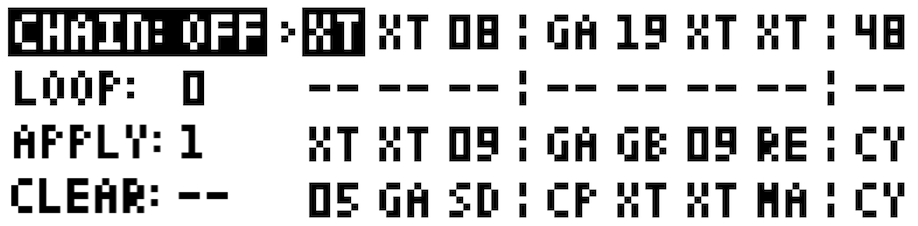
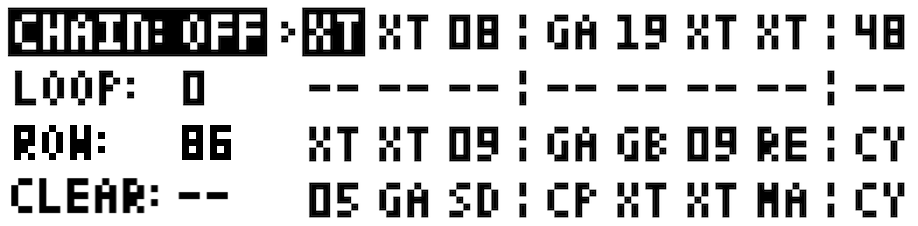
Updates from Overleaf

Changed region(s): [[0.0, 0.5265, 0.2745, 0.7124]]

diff --git a/MCL Documentation/TeX_files/SlotMenu.tex b/MCL Documentation/TeX_files/SlotMenu.tex
@@ -1,17 +1,16 @@
 \chapter{Slot Menu:}
 
 The Slot Menu is an important sub-menu of the Grid Page and is used to manipulate slots in a variety of ways.
-
+\\\\
 It can be used to clear, copy, paste one or more slots in a row or to configure a slot's chain settings. It also provides an option to rename the current row and provides a quick way to activate or deactivate various Global Chain Modes.
-
-%\begin{center}
 \screenshot{slot_menu.png}
-%\fbox{\includegraphics[scale=.35]{slot_menu.png}}
-%\end{center}
+%\fbox{\includegraphics[scale=.40]{slot_menu.png}}\\
+\\
+\textit{The SlotMenu is accessible from the GridPage by holding down the  \textbf{[Shift2]} function button.\\
+\\
+When \textbf{[Shift2]} is released, any changes to the menu will be to the selected slots. A rectangular selection consiting of multiple slots can be made by rotating \textbf{[Encoder 1]} and \textbf{[Encoder 2]}. }
 
-\textit{The SlotMenu is accessible from the GridPage by holding down the  \textbf{[Shift2]} function 
-button.\\
-When \textbf{[Shift2]} is released, any changes to the menu will be applied to the current slot. If the APPLY value is greater than 1, changes will be applied sequentially; starting from the current slot and up to the number of slots specified by the APPLY value}
+\screenshot{range_copy.png}
 
 \section{Slot Menu Options:}
 Slot Menu has the following options and selectable values:
@@ -23,7 +22,7 @@ Entry                                  & Function                               
 Chain: {[} –, auto, manual, random {]} & \begin{tabular}[c]{@{}l@{}}auto: enables chain auto mode global setting.\\ manual: enables chain manual mode global setting.\\ random: enables chain random mode global setting.\end{tabular} \\ \hline
 Loops: (0, 64)                         & specify how many times to loop track/slot.                                                                                                                                                    \\ \hline
 Row: (0,127)                           & \begin{tabular}[c]{@{}l@{}}specify which row, the current slot is to\\ load/jump to after n loops.\end{tabular}                                                                               \\ \hline
-Apply: (0,20)                          & \begin{tabular}[c]{@{}l@{}}apply the selected changes to the next N\\ slots upon exit of SlotMenu.\end{tabular}                                                                               \\ \hline
+
 Clear: {[} –, YES {]}                  & clear the selected slot(s).                                                                                                                                                                   \\ \hline
 Copy: {[} –, YES {]}                   & copy the selected slot(s).                                                                                                                                                                    \\ \hline
 Paste: {[} –, YES {]}                  & paste the selected slot(s).                                                                                                                                                                   \\ \hline
@@ -32,5 +31,7 @@ Rename                                 & rename the current row.                
 
 \section{HD44780 LCD users:}
 \textit{Note: For users running MCL on a \textbf{HD44780 LCD}, the SlorMenu  is accessible from the GridPage by holding down the  \textbf{[Shift2]} function button and pressing a corresponding encoder button.\\
-\\For example if slots 5 to 8 are displayed on screen, holding  \textbf{[Shift2]} and then pressing \textbf{[Encoder3]} will open the slot menu for slot 7.}
+\\For example if slots 5 to 8 are displayed on screen, holding  \textbf{[Shift2]} and then pressing \textbf{[Encoder3]} will open the slot menu for slot 7.}\\
+\\
+Rectangular selection is not available for the HD44780. Instead, an additional "APPLY" parameter is provided. If the APPLY value is greater than 1, changes will be applied sequentially; starting from the current slot and up to the number of slots specified by the APPLY value on the same row.
 

diff --git a/MCL Documentation/TeX_files/introduction.tex b/MCL Documentation/TeX_files/introduction.tex
@@ -10,13 +10,19 @@
 Welcome to MegaCommand Live, 
 \\
 \\
-MegaCommand Live (MCL) is a firmware designed for the MegaCommand MIDI controller that enhances the Elektron MachineDrum's (MD) sequencing, sound design and live performance capabilities.
+MegaCommand Live (MCL) is a firmware designed for the MegaCommand MIDI controller that enhances the Elektron Machinedrum's (MD) sequencing, sound design and live performance capabilities.
 \\
 \\
-At the heart of MCL lies the ability to transfer individual Tracks from the MD and store them on the MegaCommand (MC) for later recall. Chain Mode, inspired by classic music trackers, allows multiple tracks to be linked together to form complex musical pharses. During a performance, tracks from different patterns can be loaded and mixed together
+At the heart of MCL lies the ability to retrieve individual Tracks from the MD and store them on the MegaCommand (MC) for later recall. Chain Mode, inspired by classic music trackers, allows multiple tracks to be linked together to form complex musical phrases. During a performance, tracks from different patterns can be loaded and mixed together.
 \\
 \\
-MCL features a modern sequencer replacement for the Elektron Machinedrum. It consists of 20 local sequencer tracks with individual track lengths, parameter locks, micro-timing and conditional trigs. Sixteen of these tracks can be used to sequence the Elektron MD, the remaining four tracks are polyphonic and can be used to sequence external instruments such as the Elektron Analog 4. 
+MCL features a modern sequencer replacement for the Elektron Machinedrum. It consists of 20 local sequencer tracks with individual track lengths, parameter locks, micro-timing and conditional trigs. Sixteen of these tracks can be used to sequence the MD, the remaining four tracks are polyphonic and can be used to sequence external instruments such as the Elektron Analog 4. 
 \\
 \\
-Other features of the MCL firmware include: MD Trigger Interface, Chromatic + Polyphonic Mode,  Level Mixer, Audio Mute + Routing System, Sound Browser, RAM recorder, Single Cycle Waveform Designer, Turbo 8x MIDI and much more.
+Other features of the MCL firmware include: MD Trigger Interface, Chromatic + Polyphonic Mode,  Level Mixer, Audio Mute + Routing System, Sound Browser, Single Cycle Waveform Designer, Global LFO, FX Pages, Automated RAM recording, Turbo 8x MIDI and much more.
+\\
+\\
+A great deal of care has gone in to designing the Graphical User Interface, the inter connectivity with the MD's hardware and operating system. The firmware has been highly optimised to facilitate outstanding MIDI performance and stability.
+\\
+\\
+There is a great deal of depth to MCL. Please take your time to read each section carefully.

diff --git a/MCL Documentation/TeX_files/grid_page.tex b/MCL Documentation/TeX_files/grid_page.tex
@@ -5,12 +5,12 @@ The first page you will be presented with after loading or creating a new projec
 \begin{center}
 	\includegraphics[scale=.40]{grid_init_annot.png}
 \end{center}
-MCL displays the Grid on screen. Four rows are drawn on screen at any one time with each row showing 8 out of 20 slots.
-
-Occupied slots will show the Machine Type associated with the track for example "BD" for Bass Drum. Unoccupied Slots are represented by two lines of "--" . For clarity, a dashed vertical line is printed after every fourth slot. 
-
-The current slot's column and row are displayed towards the bottom left of the screen.
-
+MCL displays the Grid on screen. Four rows are drawn on screen at any one time with each row showing 8 out of 20 slots.\\
+\\
+Occupied slots will show the Machine Type associated with the track for example "BD" for Bass Drum. Unoccupied Slots are represented by two lines of "--" . For clarity, a dashed vertical line is printed after every fourth slot.\\
+\\
+The current slot's column and row are displayed towards the bottom left of the screen.\\
+\\
 An interactive cursor indicates the current slot position and is distinguished by a slot printed with inverted colours.
 
 \encodersbuttons{scrolls the grid horizontally.}{scrolls the grid vertically.}{--}{--}{activates Save page.}{activates PageSelect page.}{activates Chain Write page.}{activates the Slot menu.}

diff --git a/MCL Documentation/TeX_files/key_concepts.tex b/MCL Documentation/TeX_files/key_concepts.tex
@@ -24,7 +24,7 @@ A position in the Grid where a Track can be stored. (Either occupied or unoccupi
 
 \item Tracks
 \\
-A track copied from the Elektron MD or AnalogFour, or an external MIDI track.
+A track retrieved from the Elektron MD or AnalogFour, or an external MIDI track.
 
 There are 3 types of tracks.
 \begin{itemize}
@@ -42,15 +42,6 @@ A General MIDI device track only containing Local Sequencer Data.
 
 \item Internal Sequencer:\\
 MCL's 20 track internal sequencer.
-
-\item Basic Workflow:\\
-The Grid is similar to the banks of the MD, but different. An active pattern is first chain-written from the Grid into the Internal Sequencer and then ready for playback. 
-
-Different tracks from different rows in the Grid can be mix-and-matched into the Internal Sequencer too.
-
-Patterns created in the Sequencer Pages are kept in the Internal Sequencer, and thus not immediately saved to the Grid, until the MCL firmware is told so in the Save Page. 
-
-A common gotcha is to create a pattern in the Sequencer Pages, use the Chain Write page to load data from the Grid, only to find the just-created pattern gone. To avoid this, make sure to \textbf{save modified internal sequence before chain write}.
 
 \end{itemize}
 

diff --git a/MCL Documentation/TeX_files/GUI.tex b/MCL Documentation/TeX_files/GUI.tex
@@ -36,7 +36,7 @@ The MD TI is not natively supported by the MD and is instead achieved using a Gl
 \\
 The TI will cease working whenever the MD display is updated unexpectedly, for example, when a machine parameter's value is changed; or when a sub-menu on the MD is opened.\\
 \\
-As a precaution, whenever entering a Page on the MC that uses the TI, the MD's current track will automatically change to a track without Parameter locks. This avoids unexpected display updates that may be caused by transmitted Parameter Changes. If all tracks have parameter locks, then Track 16 will be chosen. Parameter Locks on Track 16 will therefor not be transmitted when the TI is active.\\
+As a precaution, whenever entering a Page on the MC that uses the TI, the MD's current track will automatically change to a track without Parameter locks. This avoids unexpected display updates that may be caused by transmitted Parameter Changes. If all tracks have parameter locks, then Track 16 will be chosen.\\
 \\
 \textit{Recovery: If the Trigger Interface stops working exit all submenus on both the MD and MC. On the MD press \textbf{[ Func + Extended ]} to reset the state of the MD.}
 

diff --git a/MCL Documentation/TeX_files/md_step_edit.tex b/MCL Documentation/TeX_files/md_step_edit.tex
@@ -24,6 +24,8 @@ The MD StepEdit page is used to program MCL's internal sequencer for a selected 
 \item P10, P25, P50, P75, P90 (For Pxx, step has a xx percent chance of being triggered)
 \item 1S. (One Shot trig, step is only triggered once)
 \end{itemize}
+\section{Micro Timing:}
+\screenshot{utiming1.png}
 
 \vspace{-0.3cm}
 
@@ -58,17 +60,10 @@ Each track consists of 4 pages of 16 steps, for a total of 64 steps per track.
 \item Track length can also be set by holding \textbf{[Write]} and then selecting the corresponding step from the MD trigger interface. The track length is offset by the current track-page.
 \end{itemize}
 
-\vspace{-0.3cm}
-
 \section{Chromatic Step Edit:}
-
-\vspace{-0.3cm}
-
-%\fbox{\includegraphics[scale=.40]{step_keyboard.png}}
-\screenshot{step_keyboard.png}
-
 The step page allows you to adjust a step's pitch by setting a note value. 
 \begin{itemize}
 \item Press and hold trigger button(s) on the MD. Rotating \textbf{[ Encoder 4 ]} will allow you change the note value of the selected steps.
 \item A keyboard will be drawn on the display, showing the current note.
 \end{itemize}
+\screenshot{step_keyboard.png}

diff --git a/MCL Documentation/TeX_files/workflow.tex b/MCL Documentation/TeX_files/workflow.tex
@@ -1,0 +1,9 @@
+\chapter{ Workflow: }
+
+The Grid is similar to the banks of the MD, but different. An active pattern is first chain-written from the Grid into the Internal Sequencer and then ready for playback. 
+
+Different tracks from different rows in the Grid can be mix-and-matched into the Internal Sequencer too.
+
+Patterns created in the Sequencer Pages are kept in the Internal Sequencer, and thus not immediately saved to the Grid, until the MCL firmware is told so in the Save Page. 
+
+A common gotcha is to create a pattern in the Sequencer Pages, use the Chain Write page to load data from the Grid, only to find the just-created pattern gone. To avoid this, make sure to \textbf{save modified internal sequence before chain write}.

diff --git a/MCL Documentation/TeX_files/md_settings.tex b/MCL Documentation/TeX_files/md_settings.tex
@@ -10,7 +10,7 @@ When activated, all saved tracks have their LEV boosted to 127, and parameters c
 to compensate. LFOs with destination VOL are 
 adjusted too.
 
-The resulting track loudness remains the same, but the Track LEV parameter is no longer set arbitrarily. LEV == 127 will always be the loudest volume for each track.
+The resulting track loudness remains the same, but the Track LEV parameter is no longer set arbitrarily. The maximum value of LEV, will always be the loudest volume for each track.
 \section{CTRL CHAN:}
 The CTRL CHAN setting is used to specify which note data the MD responds to when in Chromatic modes.
 

diff --git a/MCL Documentation/TeX_files/system_settings.tex b/MCL Documentation/TeX_files/system_settings.tex
@@ -2,5 +2,6 @@
 
 \section{Display:}
 The display setting is used to enable the OLED display mirror. Using the provided python script and a USB connection between the MC and your computer, it is possible to mirror the OLED display over the serial port to your computer screen.
+\textit{Leaving this setting enabled will reduce the performance of the GUI.}
 \section{Screensaver:}
 To preserve the OLED display a 5 minute screen-saver is enabled by default. After 5 minutes of inactivity the display will turn black to prevent any burn in.

diff --git a/MCL Documentation/TeX_files/page_select.tex b/MCL Documentation/TeX_files/page_select.tex
@@ -35,7 +35,7 @@ Rotating \textbf{[Encoder 1]} will scroll through the available PageSelect pages
     \end{tabular}
 \end{figure}
 
-\textit{The MD's trigger interface can be used to quickly toggle between pages in the PageSelect page. }
+\textit{The MD's trigger interface can be used to quickly toggle between pages in the PageSelect page. The page numbers above correspond to their mapping to the trigger buttons. }
 
 
 

diff --git a/MCL Documentation/TeX_files/fx_delay_page.tex b/MCL Documentation/TeX_files/fx_delay_page.tex
@@ -11,7 +11,9 @@ All the parameters of the delay effect can be controlled. Four of them are displ
 
 \section{FX A}
 \encoders{Modulation(MOD)}{Modulation Frequency(MFQ)}{Mono(MON)}{Level(LEV)}
+\screenshot{delay_action.png}
 
 
 \section{FX B}
 \encoders{Delay Time(TIM)}{Delay Feedback(FB)}{Filter Frequency(FLF)}{Filter Width(FLW)}
+\screenshot{delay_action2.png}

diff --git a/MCL Documentation/main.tex b/MCL Documentation/main.tex
@@ -137,6 +137,7 @@
 \include{./TeX_files/md_settings}
 \include{./TeX_files/chain_settings}
 \include{./TeX_files/system_settings}
+\include{./TeX_files/workflow}
 \include{./TeX_files/save_page}
 \include{./TeX_files/chain_mode}
 \include{./TeX_files/chain_page}
